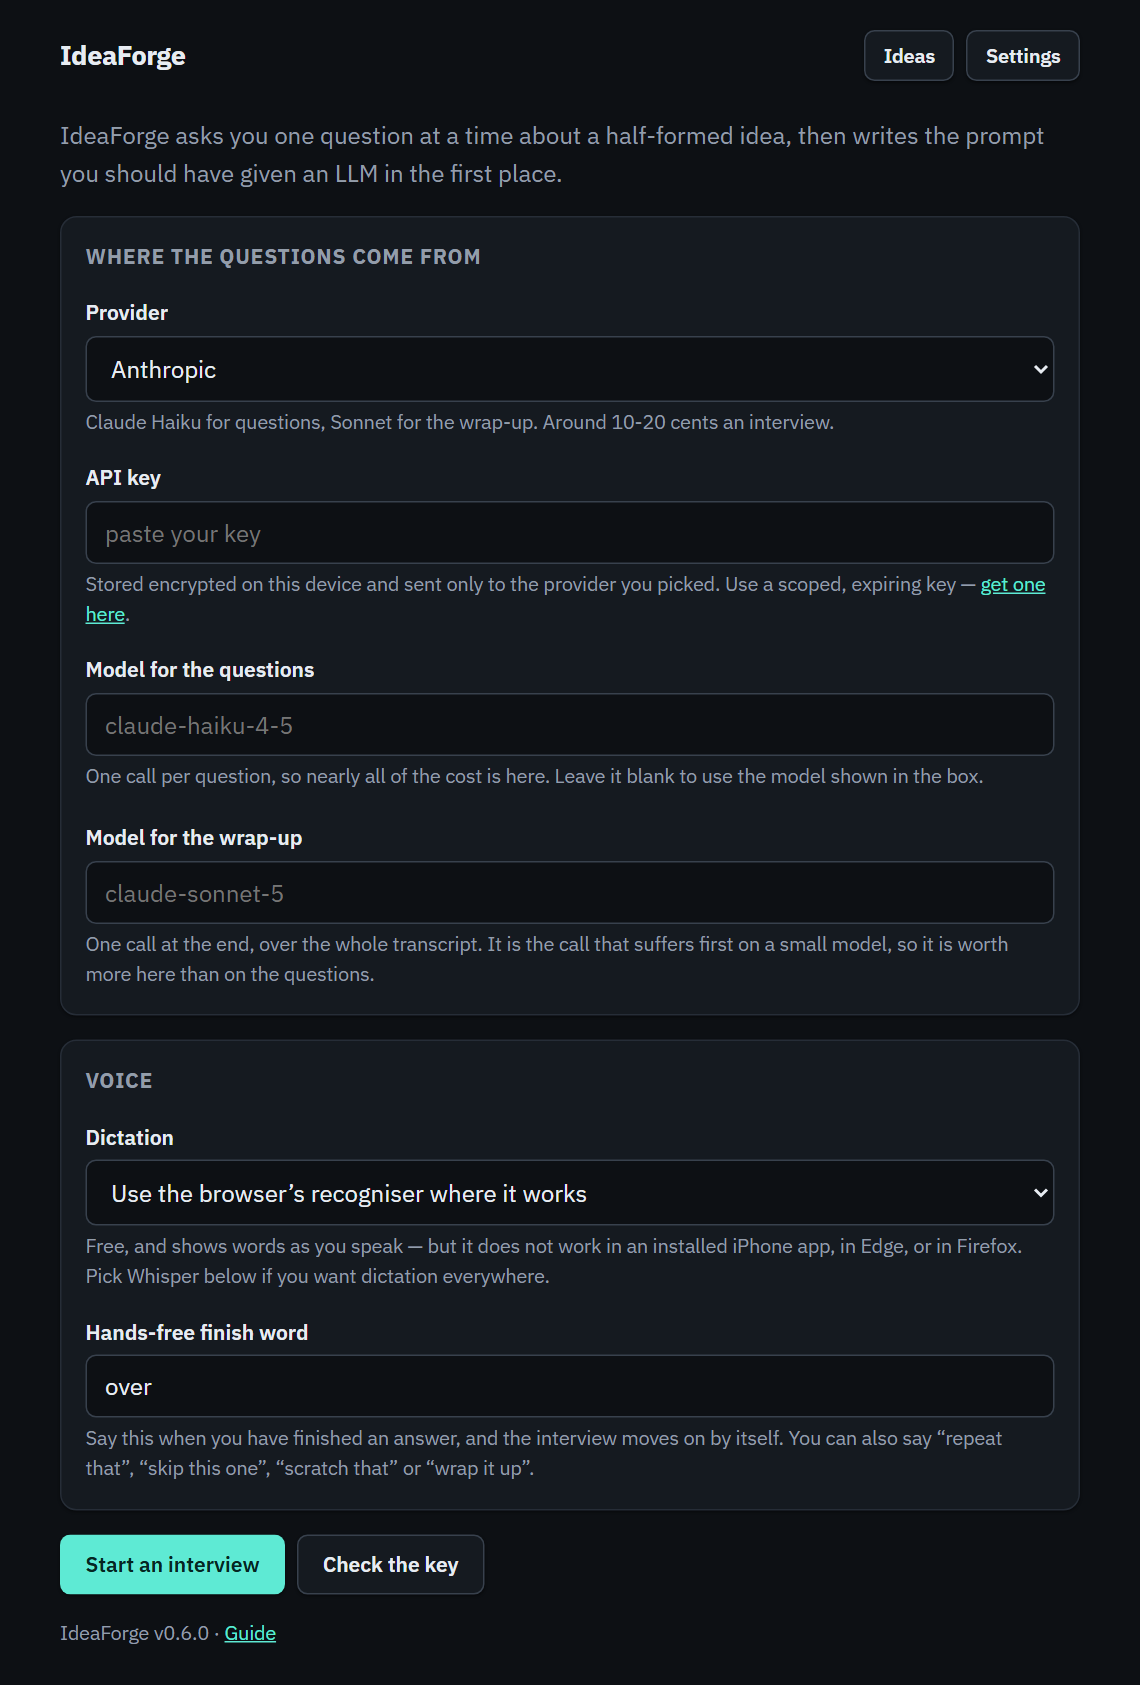
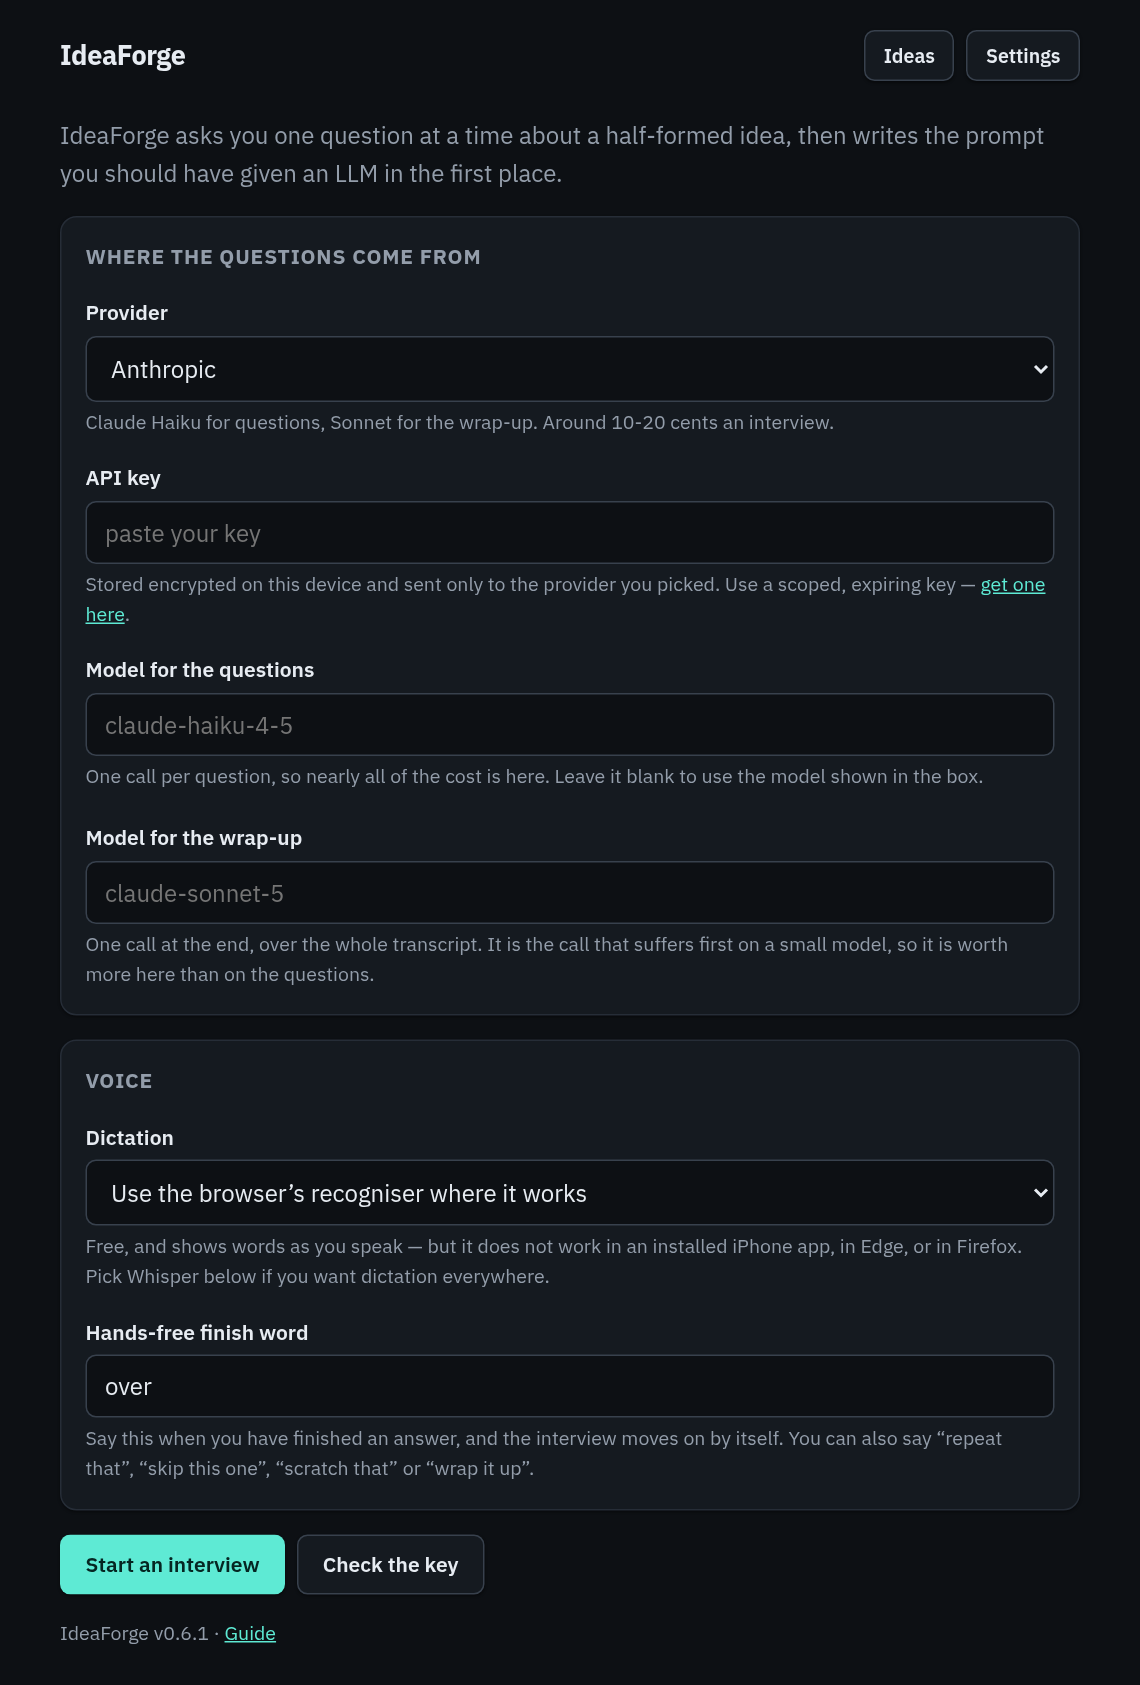
Prepare v0.6.1
Bumps package.json and src/version.js together, plus the pin example in
docker/compose.release.yml. Screenshots carry the version in the footer, so
01-setup is regenerated and the other pairs are left alone.

#49 stops Android dictation repeating every draft of the answer, and stops
an Android draft ending a hands-free answer early or firing a command. A fix
with no new feature, so a patch bump.

diff --git a/src/version.js b/src/version.js
@@ -4,4 +4,4 @@
 // ES module in a browser needs an import attribute that is not universally supported yet,
 // and this app has no build step to inline it. A test asserts the two never drift.
 
-export const VERSION = '0.6.0';
+export const VERSION = '0.6.1';
